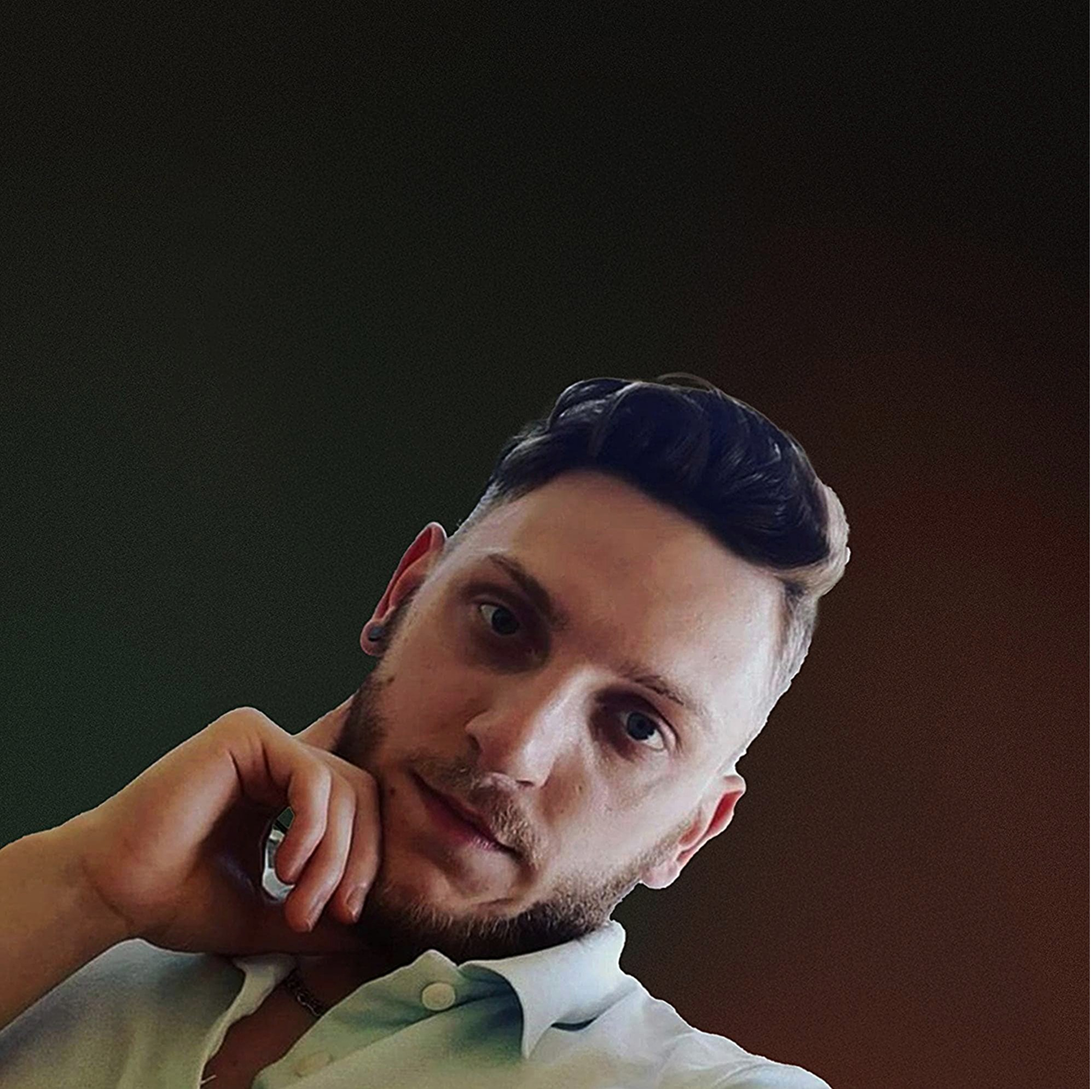
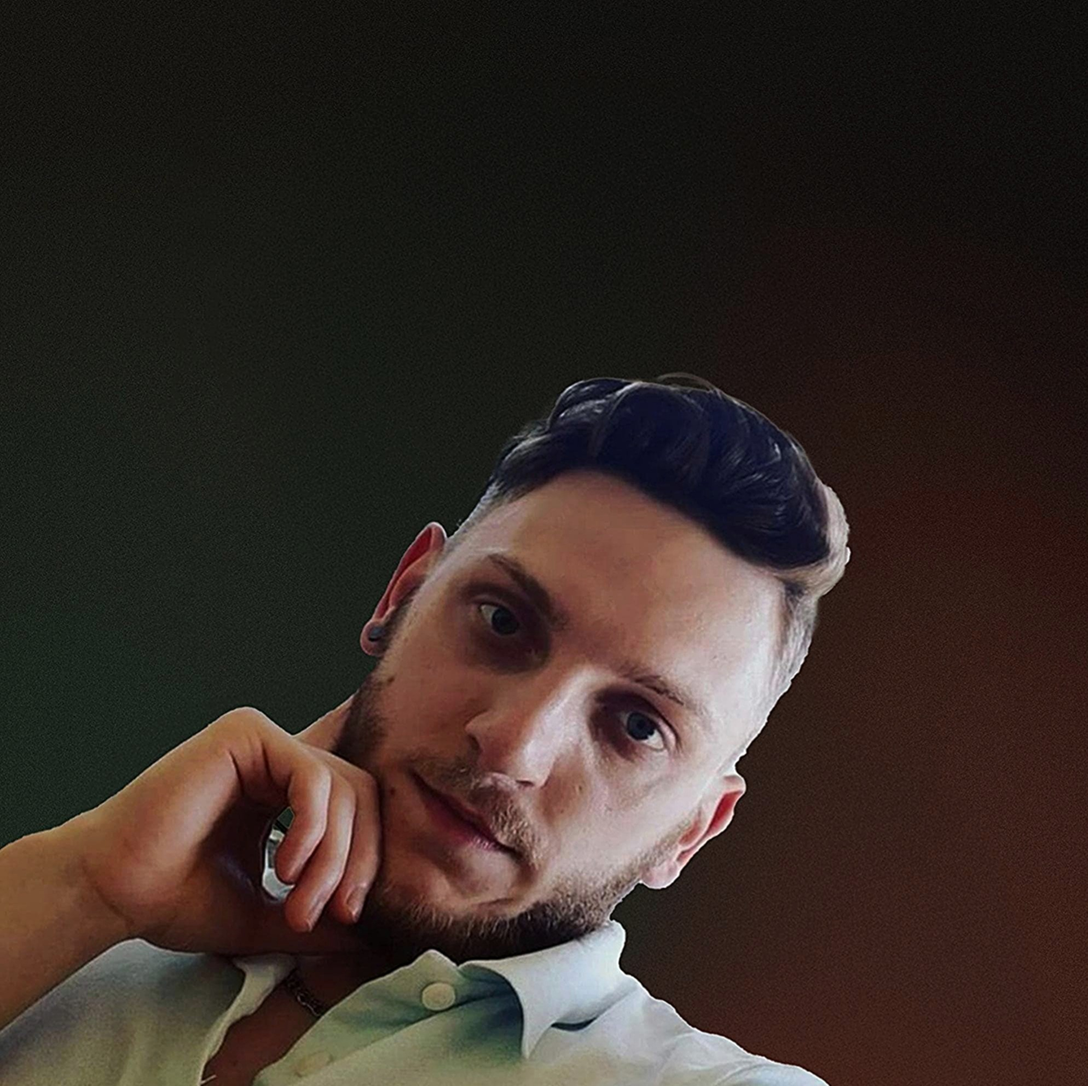
fixed v1

diff --git a/src/css/menu.css b/src/css/menu.css
@@ -1,27 +1,27 @@
 .header__menu-toggle {
     position: relative;
 
-    right: 30px;
+    width: 44px;
+    height: 34px;
+
+    display: flex;
+    flex-direction: column;
+    align-items: center;
+    justify-content: space-around;
 
     transition: all 0.3s ease-in-out; 
 }
 
 .header__menu-toggle>span {
-    position: absolute;
-
-
     width: 28px;
     height: 1.5px;
 
-    background-color: var(--color-gray-8);
+    background-color: var(--color-gray-8); 
 }
 
 .header__menu-toggle::after {
     content: '';
 
-    position: absolute;
-
-    bottom: -10px;
 
     width: 28px;
     height: 1.5px;
@@ -34,64 +34,62 @@
 .header__menu-toggle::before {
     content: '';
 
-    position: absolute;
-
-    top: -10px;
-
     width: 28px;
     height: 1.5px;
 
     background-color: var(--color-gray-8);
 
-    transition: all 0.6s;
+    transition: all 0.5s ease-in;
 }
 
 .header__menu-toggle.is-open {
     z-index: 9997;
+
+    transition: all linear 0.5s;
 }
 
 .header__menu-toggle.is-open>span {
     background-color: transparent;
-
-    transition: color all 0.5s;
 }
 
 .header__menu-toggle.is-open::before {
+    position: absolute;
     transform: rotate(315deg);
 
-    top: 0;
+    top: 50%;
 
     width: 30px;
     
-    transition:all 0.5s;
+    transition:all 0.5s linear;
 }
 
 .header__menu-toggle.is-open::after {
+    position: absolute;
     transform: rotate(-315deg);
 
-    top: 0;
+    top: 50%;
 
     width: 30px;
 
-    transition:all 0.5s;
+    transition:all 0.5s linear;
 }
 
 @media only screen and (min-width: 900.98px) { 
     .header__menu-toggle {
-        display: none;
+        display     : none;
     }
 }
 
 /*  M O B I L E  */ 
 
 .header_modal--navigation {
-    z-index: -1;
+    z-index     : -1;
 
-    width: 100%;
+    width       : 100%;
 
-    position: absolute;
+    position    : absolute;
 
-    top: 80px;
+    top         : 80px;
     
 
     background-color: var(--color-3);

diff --git a/src/css/intro.css b/src/css/intro.css
@@ -1,19 +1,27 @@
 #intro--section {
     height           : 100vh;
 
-    background-image : url(/img/intro/my-bgOptim.jpg);
+    background-image : url(/img/intro/foto.jpg);
     background-size  : cover;
 }
 
-.intro--wrapper {
-    height     : 100%;
+@media only screen and (min-width: 520.98px) { 
+    #intro--section { 
+        background-image : url(/img/intro/my-bgOptim.jpg);
+        background-repeat: no-repeat;
+    }
+}
 
-    display    : flex;
+.intro--wrapper {
+    height           : 100%;
+
+    display          : flex;
     justify-content  : space-between;
 }
 
 .intro--text_content {
-padding-top     : 100px;
+padding-top     : calc(60px + 1.5vh);
+
 width           : 100vw;
 height          : 100vh;
 
@@ -65,25 +73,18 @@ align-items     : center;
     display      : none;
 }
 
-.intro--button_box {
-    display      : flex;
-    
-    column-gap   : 17px;
-}
-
-
 .intro--foto {
-    width  : 100%;
-    height : 100%;  
+    width: 100%;
+    height: 100%;
 }
 
 .intro--button_box { 
     width: clamp(300px, 100% , 400px);
 
+    display      : flex;
     align-self: center;
     flex-wrap: wrap;
-    row-gap: 20px;
-
+    gap: 20px 17px;
 }
 
 .intro--b-1 {
@@ -152,8 +153,6 @@ align-items     : center;
 
     .intro--background_image {
         display    : block;
-        
-        width      : 46vw;  
 
         z-index    : -1;
     
@@ -191,10 +190,6 @@ align-items     : center;
 }
 
 @media only screen and (min-width: 1280px) {
-
-    .intro--background_image {
-    
-    }
 
     .intro--button_box { 
         width:100%;

diff --git a/src/css/introSlider.css b/src/css/introSlider.css
@@ -1,11 +1,11 @@
 .mySwiper {
-    width: clamp(272px, 15rem, 620px);
-    text-align: center;
+    width       : clamp(272px, 20rem, 620px);
+    text-align  : center;
 }
 
 @media only screen and (min-width: 1200px) { 
     .mySwiper {
-        width: clamp(375px, 32rem, 620px);
-        text-align: left;
+        width          : clamp(375px, 32rem, 620px);
+        text-align     : left;
     }
 }

diff --git a/src/index.html b/src/index.html
@@ -26,13 +26,13 @@
   <body id="scroll--to_top">
     <!-- Preloader -->
 
-    <!-- <div id="preloader">
+    <div id="preloader">
       <div id="loader" class="dots-fade">
         <div></div>
         <div></div>
         <div></div>
       </div>
-    </div> -->
+    </div>
 
     <!-- Header -->
 

diff --git a/src/css/container.css b/src/css/container.css
@@ -4,7 +4,7 @@
   min-width: 320px;
   
   margin: 0 auto;
-  padding: 0 24px;
+  padding: 0 16px;
 }
 
 @media only screen and (min-width: 499.98px) and (max-width:900px) { 

diff --git a/src/css/base.css b/src/css/base.css
@@ -6,6 +6,7 @@
   font-weight: var(--base-font-weight);
   line-height: var(--base-line-height);
   font-style: normal;
+
 }
 
 body {
